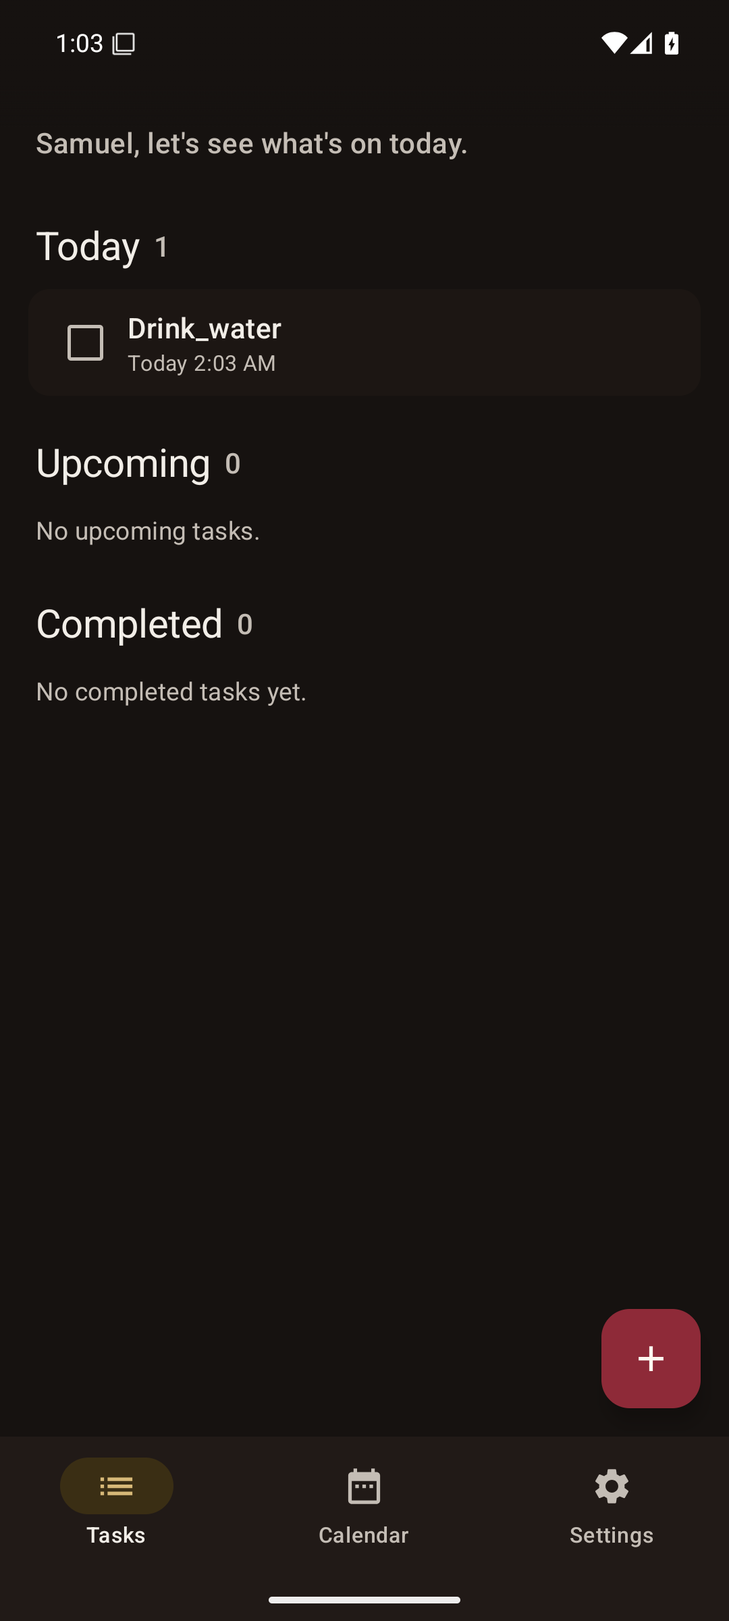
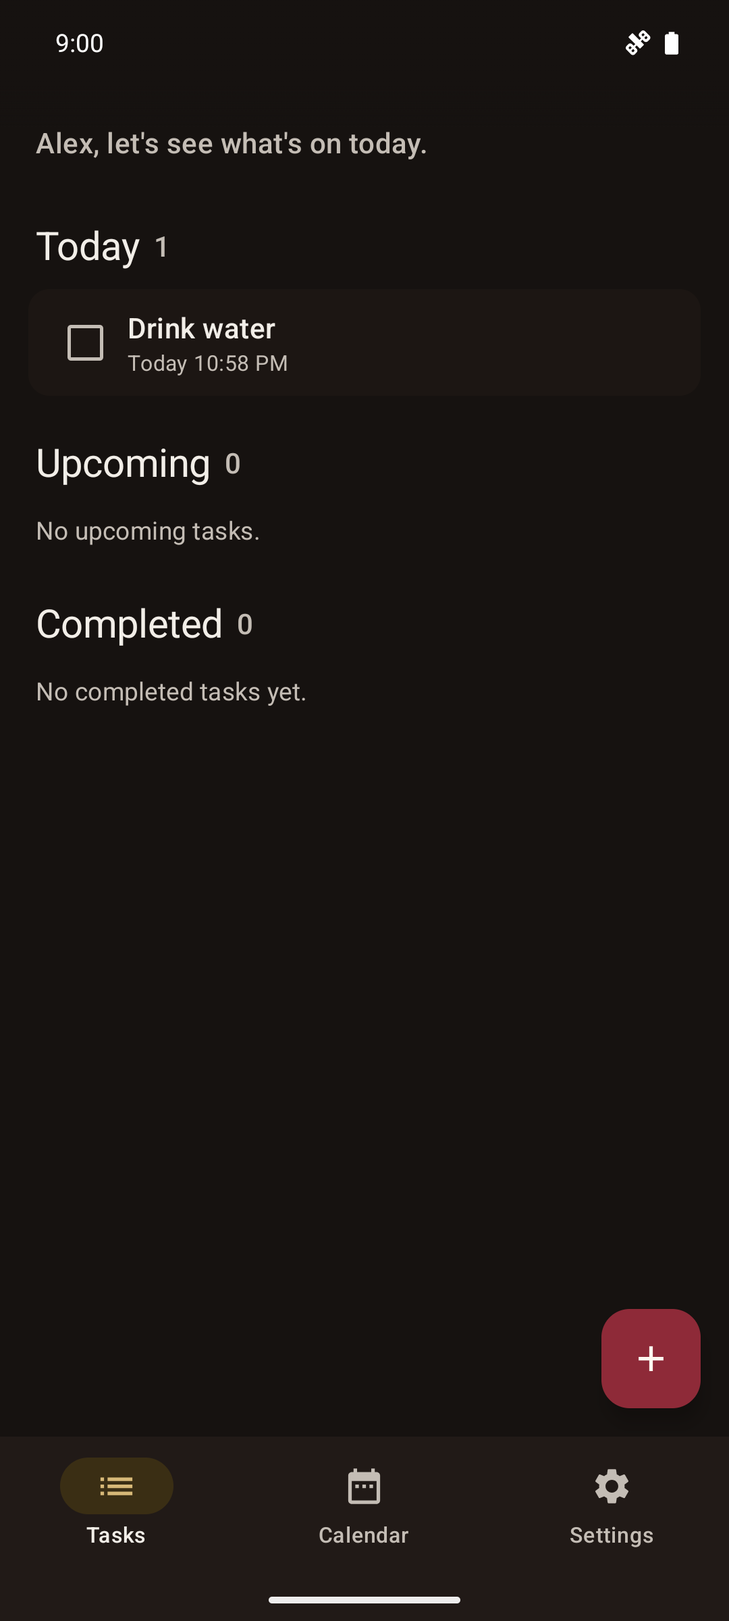
Update the READMEs and screenshots, fix the Russian download link; 1.4.1

diff --git a/README.ru.md b/README.ru.md
@@ -16,7 +16,7 @@
 </p>
 
 <p align="center">
-  <a href="https://github.com/Kw4nzah/Kairos/releases/latest"><b>**Установка:** скачайте `Kairos-1.4.0.apk` из [последнего релиза](https://github.com/Kw4nzah/Kairos/releases/latest), откройте на телефоне и при запросе разрешите установку из браузера или файлового менеджера. APK подписан отладочным ключом, поэтому Play Protect может попросить подтверждение.</b></a>
+  <a href="https://github.com/Kw4nzah/Kairos/releases/latest"><b>Скачать APK</b></a>
   ·
   <a href="README.md">English</a>
   ·
@@ -29,13 +29,15 @@
 
 Kairos — приложение-напоминалка для Android на Kotlin и Jetpack Compose (Material 3). Оно не звенит один раз и замолкает: каждое напоминание превращается в небольшую цепочку нарастающих «липких» уведомлений в одном понятном и дружелюбном тоне. Доступно на английском, русском и турецком.
 
+**Установка:** скачайте `Kairos-1.4.1.apk` из [последнего релиза](https://github.com/Kw4nzah/Kairos/releases/latest), откройте на телефоне и при запросе разрешите установку из браузера или файлового менеджера. APK подписан отладочным ключом, поэтому Play Protect может попросить подтверждение.
+
 
 ## Статус
 
-- Сборка: отладочный APK собирается (`:app:assembleDebug`).
-- Модульные тесты: повторения, конечный автомат отсрочки и выбор вариантов тона (`LogicTest`).
-- Проверено на эмуляторе: цепочка уведомлений (предупреждение, основное уведомление, проверка, кнопки отсрочки) полностью прогнана на эмуляторе Android.
-- **На реальном устройстве пока не проверено.** Точные будильники при настоящем управлении батареей, уведомления на весь экран, звуки и синхронизацию с календарём ещё нужно проверить на устройстве.
+- Сборка: релизы — это уменьшенные APK, собранные локально (`:app:assembleRelease`).
+- Модульные тесты: повторения, расписание будильников с отсрочкой, конечный автомат отсрочки и выбор вариантов текста (`LogicTest`, `ChainTest`).
+- Проверено на эмуляторе (Android 15): цепочка уведомлений, отсрочка после перезагрузки, будильник на телефоне с PIN-блокировкой, обновление с 1.4.0, три языка и обе темы.
+- **Проверка на реальном устройстве ограничена.** Окно будильника работало на телефоне. Включение экрана, точные будильники при управлении батареей от производителя, звук и синхронизацию с календарём ещё нужно проверить на устройстве.
 
 ## Возможности
 
@@ -43,19 +45,20 @@ Kairos — приложение-напоминалка для Android на Kotli
 - **Цепочка напоминаний.** Каждое напоминание отправляет три уведомления вокруг времени `T`: предупреждение за **10 минут до T**, основное уведомление в **T** и проверка «Получилось?» через **5 минут после T**.
 - **Уведомления, которые нельзя закрыть.** Они постоянные, не закрываются автоматически, без кнопки закрытия, используют канал будильника с максимальной важностью и вибрацией, обходят режим «Не беспокоить» и видны на экране блокировки. Если уведомление смахнули, delete intent публикует его снова. Уведомления в T и T+5 также запрашивают показ на весь экран.
 - **Финальное уведомление только с отсрочкой.** Уведомление T+5 предлагает лишь **Отложить на 5 мин** и **Отложить на 10 мин**.
+- **Отсрочка заменяет цепочку.** Звонит только отложенный будильник; он сохраняется после перезагрузки, обновления приложения и смены времени.
 - **После трёх отсрочек.** Остаются только **«Отложить ещё на 10 мин»** и **«Готово, больше не напоминать»**, а текст становится чуть строже.
 - **Звук для каждого напоминания.** 16 встроенных звуков. Выберите звук для напоминания, задайте звук по умолчанию в настройках, прослушайте перед сохранением. У каждого звука свой канал уведомлений.
 - **Повторы.** Нет, ежедневно, еженедельно (выбранные дни) или ежемесячно (с поправкой на короткие месяцы).
 - **Виджет на главном экране.** Ближайшие напоминания с первого взгляда: нажмите на кружок, чтобы отметить выполненным, или на «+», чтобы добавить новое. Меняет размер, подстраивается под светлую/тёмную тему.
 - **Обновления в приложении.** Настройки → О приложении проверяет последний релиз на GitHub и может скачать и установить его (проверка SHA-256; Android всё равно запросит подтверждение).
-- **Окно будильника.** С момента напоминания поверх экрана блокировки и других приложений открывается окно; кнопка «Назад» его не закрывает, только отсрочка или «Готово». Нужно разрешение «Поверх других приложений» (Настройки → Разрешения).
+- **Окно будильника.** С момента напоминания экран включается, а поверх экрана блокировки и других приложений открывается окно; кнопка «Назад» его не закрывает, только отсрочка или «Готово». Звук и вибрация повторяются, пока не нажата отсрочка или «Готово». Нужно разрешение «Поверх других приложений»; на Android 14+ разрешите также «Включение экрана» (Настройки → Разрешения). Там же есть кнопка «Проверить будильник», а на телефонах Xiaomi — ярлык к скрытым системой разрешениям на всплывающие окна и экран блокировки.
 - **Режим Hardcore.** По желанию. Дублирует каждое напоминание в локальный календарь «Kairos» на телефоне (сигнал за 10 минут и точно в срок), так что оно срабатывает и через системный календарь. Нужно разрешение на календарь; при выключении записи удаляются.
 - **Списки задач и календарь.** Списки «Сегодня / Предстоящие / Выполненные» и календарь на месяц с отметками дней. Даты, названия месяцев и дней недели и первый день недели соответствуют выбранному языку.
 - **Выбор темы.** В настройках можно следовать системе или принудительно включить светлую либо тёмную тему.
 - **Языки.** Английский, русский и турецкий. По умолчанию Kairos следует языку системы; в настройках есть раздел языка (Системный / English / Türkçe / Русский), который применяется мгновенно благодаря поддержке языка для отдельных приложений в Android. Уведомления и записи в календаре тоже используют выбранный язык.
 - **Приватность.** Нет аккаунтов, нет аналитики. Данные остаются в локальной базе. Единственное обращение к сети — проверка обновлений: она связывается с GitHub и ничего о вас не отправляет.
 
-Используемые разрешения: уведомления, точные будильники, показ на весь экран, поверх других приложений (окно будильника), завершение загрузки (для перепланирования), вибрация, интернет и установка пакетов (только обновления), исключение из экономии батареи (по желанию), чтение/запись календаря (только режим Hardcore).
+Используемые разрешения: уведомления, точные будильники, показ на весь экран, поверх других приложений (окно будильника), включение экрана (Android 14+), завершение загрузки (для перепланирования), вибрация, интернет и установка пакетов (только обновления), исключение из экономии батареи (по желанию), чтение/запись календаря (только режим Hardcore).
 
 ## Скриншоты
 
@@ -74,7 +77,7 @@ Kairos — приложение-напоминалка для Android на Kotli
 echo "sdk.dir=/path/to/Android/Sdk" > local.properties
 
 gradle :app:testDebugUnitTest     # модульные тесты
-gradle :app:assembleDebug         # app/build/outputs/apk/debug/*.apk
+gradle :app:assembleRelease       # app/build/outputs/apk/release/*.apk (подписан локальным отладочным ключом)
 gradle :app:lintDebug             # lint (отсутствующие переводы, жёстко заданный текст, ...)
 ```
 

diff --git a/README.tr.md b/README.tr.md
@@ -29,15 +29,15 @@
 
 Kairos, Kotlin ve Jetpack Compose (Material 3) ile yazılmış bir Android hatırlatıcı uygulamasıdır. Bir kez çalıp susmaz: her hatırlatma, tek bir net ve samimi tonda, giderek yükselen yapışkan bildirimlerden oluşan küçük bir zincire dönüşür. İngilizce, Rusça ve Türkçe kullanılabilir.
 
-**Kurulum:** [son sürümden](https://github.com/Kw4nzah/Kairos/releases/latest) `Kairos-1.4.0.apk` dosyasını indir, telefonda aç ve istenirse tarayıcın veya dosya yöneticin için bilinmeyen kaynaklardan kurulumuna izin ver. APK debug anahtarıyla imzalıdır, Play Protect onay isteyebilir.
+**Kurulum:** [son sürümden](https://github.com/Kw4nzah/Kairos/releases/latest) `Kairos-1.4.1.apk` dosyasını indir, telefonda aç ve istenirse tarayıcın veya dosya yöneticin için bilinmeyen kaynaklardan kurulumuna izin ver. APK debug anahtarıyla imzalıdır, Play Protect onay isteyebilir.
 
 
 ## Durum
 
-- Derleniyor: debug APK derlenir (`:app:assembleDebug`).
-- Birim testleri var: tekrar mantığı, erteleme durum makinesi ve ton varyantı seçimi (`LogicTest`).
-- Emülatörde test edildi: bildirim zinciri (ön uyarı, ana bildirim, kontrol, erteleme düğmeleri) bir Android emülatöründe baştan sona çalıştırıldı.
-- **Henüz gerçek cihazda test edilmedi.** Gerçek pil yönetimi altında tam zamanlı alarmlar, tam ekran bildirimler, sesler ve takvim eşitlemesinin cihaz üzerinde doğrulanması gerekiyor.
+- Derleniyor: sürümler yerelde derlenen küçültülmüş APK'lardır (`:app:assembleRelease`).
+- Birim testleri var: tekrar mantığı, ertelemeli alarm zamanlaması, erteleme durum makinesi ve metin varyantı seçimi (`LogicTest`, `ChainTest`).
+- Emülatörde test edildi (Android 15): bildirim zinciri, yeniden başlatmayı aşan erteleme, PIN ile kilitli telefonda alarm, 1.4.0'dan güncelleme, üç dil ve iki tema.
+- **Gerçek cihaz testi sınırlı.** Alarm penceresinin bir telefonda çalıştığı görüldü. Ekran uyandırma, üretici pil yönetimi altında tam zamanlı alarmlar, ses ve takvim eşitlemesi cihaz üzerinde doğrulanmalı.
 
 ## Özellikler
 
@@ -45,11 +45,12 @@ Kairos, Kotlin ve Jetpack Compose (Material 3) ile yazılmış bir Android hatı
 - **Hatırlatma zinciri.** Her hatırlatma, `T` zamanı çevresinde üç bildirim gönderir: **T-10 dk** ön uyarı, **T** anında ana bildirim ve **T+5 dk** "Yaptın mı?" kontrolü.
 - **Kapatılamayan, ısrarcı bildirimler.** Kalıcıdır, otomatik kapanmaz, kapatma düğmesi yoktur, titreşimli en yüksek önemde alarm kanalı kullanır, Rahatsız Etme'yi aşar ve kilit ekranında görünür. Biri kaydırılarak silinirse silme niyeti (delete intent) onu yeniden gönderir. T ve T+5 bildirimleri ayrıca tam ekran niyeti ister.
 - **Yalnızca ertelemeli son bildirim.** T+5 bildirimi yalnızca **5 dk ertele** ve **10 dk ertele** seçeneklerini sunar.
+- **Erteleme zincirin yerini alır.** Yalnızca ertelenen alarm çalar; yeniden başlatma, uygulama güncellemesi ve saat değişikliğinde korunur.
 - **Üç erteleme sonrası.** Yalnızca **"10 dk daha ertele"** veya **"Tamam, yaptım (bir daha gönderme)"** kalır; metin biraz daha kararlı olur.
 - **Hatırlatma başına ses.** 16 hazır ses. Her hatırlatma için birini seç, Ayarlar'da varsayılan belirle, kaydetmeden önce dinle. Her ses kendi bildirim kanalını alır.
 - **Tekrarlar.** Yok, günlük, haftalık (seçilen günler) veya aylık (kısa aylara göre ayarlanır).
 - **Hardcore modu.** İsteğe bağlı. Her hatırlatmayı telefondaki yerel bir "Kairos" takvimine yansıtır (10 dk önce ve tam zamanında alarm), böylece sistem takvimi üzerinden de çalar. Takvim izni gerekir; kapatınca kayıtlar silinir.
-- **Alarm penceresi.** Ana hatırlatmadan itibaren kilit ekranının ve diğer uygulamaların üstünde tam ekran bir pencere açılır; Geri tuşu kapatmaz, yalnızca ertele ya da tamam kapatır. "Diğer uygulamaların üzerinde göster" izni gerekir (Ayarlar → İzinler).
+- **Alarm penceresi.** Ana hatırlatmadan itibaren ekran uyanır, kilit ekranının ve diğer uygulamaların üstünde tam ekran bir pencere açılır; Geri tuşu kapatmaz, yalnızca ertele ya da tamam kapatır. Ses ve titreşim, ertele ya da tamam diyene kadar tekrarlar. "Diğer uygulamaların üzerinde göster" izni gerekir; Android 14+ için "Ekranı açma" iznini de ver (Ayarlar → İzinler). Aynı bölümde "Alarmı test et" düğmesi, Xiaomi telefonlarda da sistemin gizlediği açılır pencere ve kilit ekranı izinlerine kısayol bulunur.
 - **Ana ekran widget'ı.** Sıradaki hatırlatmalar tek bakışta; daireye dokunup yapıldı işaretle, "+" ile yenisini ekle. Boyutlandırılabilir, açık/koyu temaya uyar.
 - **Uygulama içi güncelleme.** Ayarlar → Hakkında en son GitHub sürümünü kontrol eder, senin için indirip kurabilir (SHA-256 doğrulamalı; Android yine onay ister).
 - **Görev ve takvim görünümleri.** Bugün / yaklaşan / tamamlanan listeleri ve gün işaretli aylık takvim. Tarihler, ay ve gün adları ile haftanın ilk günü seçili dile uyar.
@@ -57,7 +58,7 @@ Kairos, Kotlin ve Jetpack Compose (Material 3) ile yazılmış bir Android hatı
 - **Diller.** İngilizce, Rusça ve Türkçe. Varsayılan olarak Kairos sistem dilini izler; Ayarlar'daki dil bölümü (Sistem / English / Türkçe / Русский) Android'in uygulama başına dil desteğiyle anında uygulanır. Bildirimler ve takvim kayıtları da seçilen dili kullanır.
 - **Gizlilik odaklı.** Hesap yok, analitik yok. Veriler yerel bir veritabanında kalır. Tek ağ kullanımı güncelleme kontrolüdür; GitHub ile konuşur ve senin hakkında hiçbir şey göndermez.
 
-Kullanılan izinler: bildirimler, tam zamanlı alarm, tam ekran niyeti, diğer uygulamaların üzerinde gösterme (alarm penceresi), açılış tamamlandı (yeniden zamanlamak için), titreşim, internet ve paket kurma (yalnızca güncelleme), pil kısıtlaması muafiyeti (isteğe bağlı) ve takvim okuma/yazma (yalnızca Hardcore modu).
+Kullanılan izinler: bildirimler, tam zamanlı alarm, tam ekran niyeti, diğer uygulamaların üzerinde gösterme (alarm penceresi), ekranı açma (Android 14+), açılış tamamlandı (yeniden zamanlamak için), titreşim, internet ve paket kurma (yalnızca güncelleme), pil kısıtlaması muafiyeti (isteğe bağlı) ve takvim okuma/yazma (yalnızca Hardcore modu).
 
 ## Ekran görüntüleri
 
@@ -76,7 +77,7 @@ Gereksinimler: JDK 17, Android SDK (compileSdk 35, minSdk 26), Gradle 8.9. Depod
 echo "sdk.dir=/path/to/Android/Sdk" > local.properties
 
 gradle :app:testDebugUnitTest     # birim testleri
-gradle :app:assembleDebug         # app/build/outputs/apk/debug/*.apk
+gradle :app:assembleRelease       # app/build/outputs/apk/release/*.apk (yerel debug anahtarıyla imzalı)
 gradle :app:lintDebug             # lint (eksik çeviriler, sabit metinler, ...)
 ```
 

diff --git a/README.md b/README.md
@@ -29,22 +29,23 @@
 
 Kairos is an Android reminder app written in Kotlin with Jetpack Compose (Material 3). It does not chime once and go quiet: every reminder becomes a small escalating chain of sticky notifications, in one clear, friendly tone. Available in English, Russian and Turkish.
 
-**Install:** download `Kairos-1.4.0.apk` from the [latest release](https://github.com/Kw4nzah/Kairos/releases/latest), open it on your phone and allow installs from your browser or file manager when asked. The APK is signed with a debug key, so Play Protect may ask for confirmation.
+**Install:** download `Kairos-1.4.1.apk` from the [latest release](https://github.com/Kw4nzah/Kairos/releases/latest), open it on your phone and allow installs from your browser or file manager when asked. The APK is signed with a debug key, so Play Protect may ask for confirmation.
 
 ## Status
 
-- Built: the debug APK builds (`:app:assembleDebug`).
-- Unit-tested: recurrence, the snooze state machine and tone variant selection (`LogicTest`).
-- Emulator-tested: the notification chain, Hardcore calendar sync, reboot rescheduling, the three languages and both themes have been run end to end on an Android emulator.
-- **Not yet tested on a real device.** Exact alarms under real battery management, full-screen intents, sounds and calendar sync still need on-device verification.
+- Built: releases are minified APKs built locally (`:app:assembleRelease`).
+- Unit-tested: recurrence, alarm scheduling with snooze, the snooze state machine and text variant selection (`LogicTest`, `ChainTest`).
+- Emulator-tested (Android 15): the notification chain, a snooze across a reboot, the alarm on a phone locked with a PIN, upgrade from 1.4.0, the three languages and both themes.
+- **Limited real-device testing.** The popup has been seen working on a phone. Screen wake, exact alarms under vendor battery management, sound and calendar sync still need on-device confirmation.
 
 ## Features
 
 - **One friendly tone.** A greeting on the task list, notification copy, empty states and snackbars all use the same clear, friendly voice (`logic/Tone.kt`, backed by string resources).
 - **Reminder chain.** Each reminder fires three notifications around its time `T`: a heads-up at **T-10 min**, the main alert at **T**, and a "did you do it?" check at **T+5 min**.
 - **Non-dismissable, aggressive notifications.** They are ongoing, not auto-cancelled, have no dismiss action, use a max-importance alarm channel with vibration, bypass Do Not Disturb and show on the lock screen. If one is swiped away, a delete intent re-posts it. The T and T+5 notifications also request a full-screen intent.
-- **Alarm popup.** From T on, the screen wakes and a full-screen alarm popup opens over the lock screen and other apps (Back does not close it). Sound and vibration repeat until you press Snooze or Done. Needs "Display over other apps" (Settings → Permissions). Settings → Permissions has a "Test the alarm" button, and on Xiaomi phones a shortcut to the pop-up and lock-screen permissions the system hides.
+- **Alarm popup.** From T on, the screen wakes and a full-screen alarm popup opens over the lock screen and other apps (Back does not close it). Sound and vibration repeat until you press Snooze or Done. Needs "Display over other apps"; on Android 14+ also allow "Turn the screen on" (Settings → Permissions). Settings → Permissions has a "Test the alarm" button, and on Xiaomi phones a shortcut to the pop-up and lock-screen permissions the system hides.
 - **Snooze-only final notification.** The T+5 notification offers only **Snooze 5 min** and **Snooze 10 min**.
+- **Snooze replaces the chain.** Only the snoozed alarm rings, and it survives a restart, an app update and a clock change.
 - **After three snoozes.** Only **"Snooze 10 more min"** or **"Done, don't notify again"** remain, and the copy becomes a bit firmer.
 - **Per-reminder sounds.** 16 bundled sounds. Pick one per reminder, set a default in Settings, preview before saving. Each sound gets its own notification channel.
 - **Repeats.** None, daily, weekly (chosen weekdays) or monthly (clamped to short months).
@@ -56,7 +57,7 @@ Kairos is an Android reminder app written in Kotlin with Jetpack Compose (Materi
 - **Languages.** English, Russian and Turkish. By default Kairos follows the system language; Settings has a language section (System / English / Türkçe / Русский) that applies instantly, using Android's per-app language support. Notifications and calendar entries use the chosen language too.
 - **Private by design.** No accounts, no analytics. Data stays in a local database. The only network use is the update check, which talks to GitHub and sends nothing about you.
 
-Permissions used: notifications, exact alarms, full-screen intent, display over other apps (alarm popup), boot completed (to reschedule), vibrate, internet and install packages (updates only), battery-optimization exemption (optional), and read/write calendar (Hardcore mode only).
+Permissions used: notifications, exact alarms, full-screen intent, display over other apps (alarm popup), turn screen on (Android 14+), boot completed (to reschedule), vibrate, internet and install packages (updates only), battery-optimization exemption (optional), and read/write calendar (Hardcore mode only).
 
 ## Screenshots
 
@@ -75,7 +76,7 @@ Requirements: JDK 17, Android SDK (compileSdk 35, minSdk 26), Gradle 8.9. The re
 echo "sdk.dir=/path/to/Android/Sdk" > local.properties
 
 gradle :app:testDebugUnitTest     # unit tests
-gradle :app:assembleDebug         # app/build/outputs/apk/debug/*.apk
+gradle :app:assembleRelease       # app/build/outputs/apk/release/*.apk (signed with the local debug key)
 gradle :app:lintDebug             # lint (missing translations, hardcoded text, ...)
 ```
 
